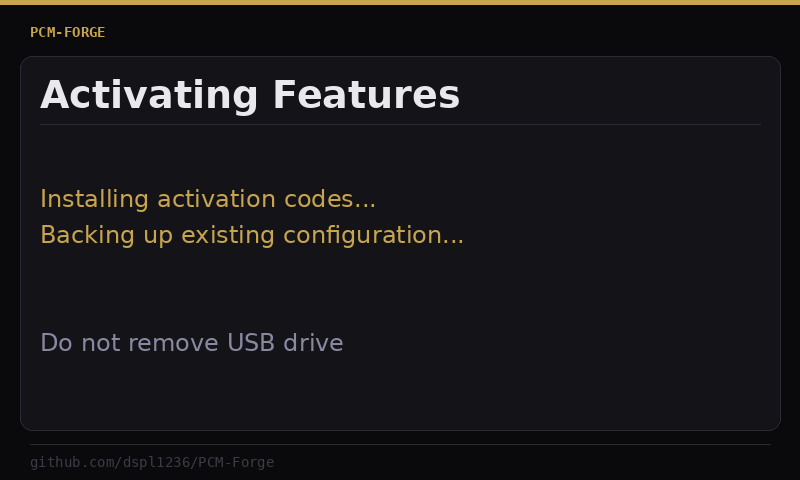
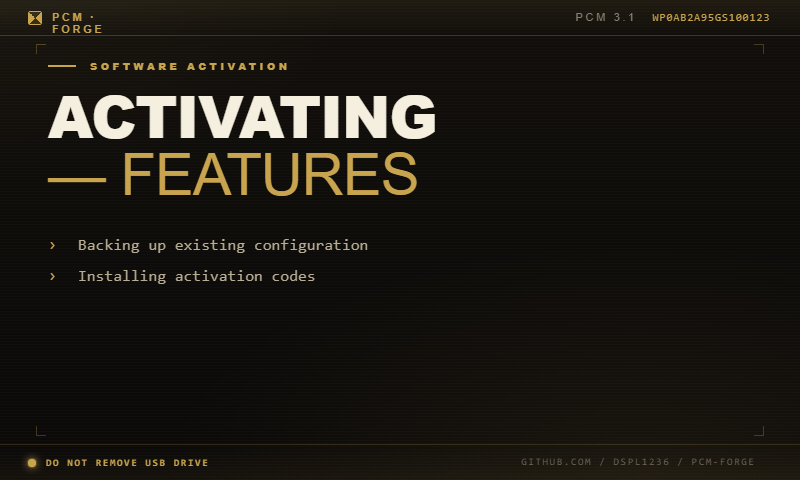
Replace PIL screens with custom-designed status PNGs
Andrew's custom designs using Claude Visualizer:
- running.png: gold 'RUNNING DIAGNOSTICS' with PCM 3.1 header
- done.png: green 'DIAGNOSTIC COMPLETE' with PagSWAct backup confirm
- activating.png: gold 'ACTIVATING FEATURES' with install/backup steps
- activating-done.png: green 'FEATURES ACTIVATED' with ignition cycle note

Activation flow: activating.png → activating-done.png
Diagnostic flow: running.png → done.png

diff --git a/desktop-app/index.html b/desktop-app/index.html
@@ -528,7 +528,7 @@ function xorEncode(plainBytes) {
 // 3-file USB structure: copie_scr.sh (XOR bootstrap) + run.sh (plaintext) + PagSWAct.002
 const BOOTSTRAP='#!/bin/ksh\nexport SDPATH=$1\nmount -u $SDPATH\ncd $SDPATH\nexec ksh ./run.sh $SDPATH\n';
 
-const RUN_ACTIVATE='#!/bin/ksh\n# PCM-Forge activation \u2014 https://github.com/dspl1236/PCM-Forge\nUSBROOT="$1"\n[ -z "$USBROOT" ] && USBROOT="/fs/usb0"\n# Show status on screen\nfor ss in "${USBROOT}/bin/showScreen" /usr/bin/showScreen; do\n    [ -x "$ss" ] && "$ss" "${USBROOT}/lib/activating.png" 2>/dev/null &\n    break\ndone\nif [ -f /HBpersistence/PagSWAct.002 ]; then\n    cp /HBpersistence/PagSWAct.002 /HBpersistence/PagSWAct.002.bak 2>/dev/null\n    cp /HBpersistence/PagSWAct.002 "${USBROOT}/PagSWAct_backup.002" 2>/dev/null\nfi\nfor obs in /HBpersistence/CustomBootscreen_*.bin; do\n    [ -f "$obs" ] && cp "$obs" "${USBROOT}/$(basename $obs).bak" 2>/dev/null\ndone\nif [ -f "${USBROOT}/PagSWAct.002" ]; then\n    cp "${USBROOT}/PagSWAct.002" /HBpersistence/PagSWAct.002 2>&1\n    touch /HBpersistence/DBGModeActive 2>&1\nfi\nfor bs in "${USBROOT}"/CustomBootscreen_*.bin; do\n    [ -f "$bs" ] && cp "$bs" /HBpersistence/ 2>/dev/null\ndone\necho "PCM-Forge done" > "${USBROOT}/pcm_ran.txt" 2>/dev/null\n# Show complete\nfor ss in "${USBROOT}/bin/showScreen" /usr/bin/showScreen; do\n    [ -x "$ss" ] && "$ss" "${USBROOT}/lib/done.png" 2>/dev/null &\n    break\ndone\n';
+const RUN_ACTIVATE='#!/bin/ksh\n# PCM-Forge activation \u2014 https://github.com/dspl1236/PCM-Forge\nUSBROOT="$1"\n[ -z "$USBROOT" ] && USBROOT="/fs/usb0"\n# Show status on screen\nfor ss in "${USBROOT}/bin/showScreen" /usr/bin/showScreen; do\n    [ -x "$ss" ] && "$ss" "${USBROOT}/lib/activating.png" 2>/dev/null &\n    break\ndone\nif [ -f /HBpersistence/PagSWAct.002 ]; then\n    cp /HBpersistence/PagSWAct.002 /HBpersistence/PagSWAct.002.bak 2>/dev/null\n    cp /HBpersistence/PagSWAct.002 "${USBROOT}/PagSWAct_backup.002" 2>/dev/null\nfi\nfor obs in /HBpersistence/CustomBootscreen_*.bin; do\n    [ -f "$obs" ] && cp "$obs" "${USBROOT}/$(basename $obs).bak" 2>/dev/null\ndone\nif [ -f "${USBROOT}/PagSWAct.002" ]; then\n    cp "${USBROOT}/PagSWAct.002" /HBpersistence/PagSWAct.002 2>&1\n    touch /HBpersistence/DBGModeActive 2>&1\nfi\nfor bs in "${USBROOT}"/CustomBootscreen_*.bin; do\n    [ -f "$bs" ] && cp "$bs" /HBpersistence/ 2>/dev/null\ndone\necho "PCM-Forge done" > "${USBROOT}/pcm_ran.txt" 2>/dev/null\n# Show complete\nfor ss in "${USBROOT}/bin/showScreen" /usr/bin/showScreen; do\n    [ -x "$ss" ] && "$ss" "${USBROOT}/lib/activating-done.png" 2>/dev/null &\n    break\ndone\n';
 
 const RUN_DIAG='#!/bin/ksh\n# PCM-Forge Enhanced Diagnostic + CAN Probe\nUSBROOT="$1"\n[ -z "$USBROOT" ] && USBROOT="/fs/usb0"\nLOG="${USBROOT}/pcm_debug.log"\nDUMPDIR="${USBROOT}/pcm_dump"\nmkdir -p "$DUMPDIR" 2>/dev/null\n# Show status on screen\nfor ss in "${USBROOT}/bin/showScreen" /usr/bin/showScreen; do\n    [ -x "$ss" ] && "$ss" "${USBROOT}/lib/running.png" 2>/dev/null &\n    break\ndone\necho "PCM-Forge diag starting" > "${USBROOT}/pcm_ran.txt"\n{\n    echo "============================================"\n    echo "  PCM-Forge Enhanced Diagnostic + CAN Probe"\n    echo "============================================"\n    echo ""\n    echo "=== PCM Version ==="\n    cat /mnt/ifs1/HBproject/version.txt 2>&1\n    cat /HBproject/version.txt 2>&1\n    echo ""\n    echo "=== VIN ==="\n    cat /HBpersistence/vin 2>&1\n    echo ""\n    echo "=== Existing Activation Files ==="\n    ls -la /HBpersistence/PagSWAct* 2>&1\n    ls -la /HBpersistence/DBGModeActive 2>&1\n    ls -la /HBpersistence/CustomBootscreen* 2>&1\n    echo ""\n    echo "=== Backup PagSWAct.002 ==="\n    if [ -f /HBpersistence/PagSWAct.002 ]; then\n        cp /HBpersistence/PagSWAct.002 "${USBROOT}/PagSWAct_backup.002" 2>&1\n        echo "Backed up to USB"\n    else\n        echo "not present"\n    fi\n    echo ""\n    echo "=== FeatureLevel / Boot Screen ==="\n    ls -la /HBpersistence/CustomBootscreen_*.bin 2>&1\n    echo ""\n    echo "=== CVALUE Files ==="\n    ls -la /HBpersistence/CVALUE*.CVA 2>&1\n    for cva in /HBpersistence/CVALUE*.CVA; do\n        [ -f "$cva" ] && cp "$cva" "$DUMPDIR/" 2>/dev/null\n    done\n    echo ""\n    echo "=== FSC Files ==="\n    ls -la /HBpersistence/FSC/ 2>&1\n    ls -la /mnt/efs-persist/FSC/ 2>&1\n    echo ""\n    echo "=== Mount Points ==="\n    mount 2>&1\n    echo ""\n    echo "=== /HBpersistence ==="\n    ls -la /HBpersistence/ 2>&1\n    echo ""\n    echo "=== Processes ==="\n    pidin 2>&1\n    echo ""\n    echo "=== Network ==="\n    ifconfig 2>&1\n    echo ""\n    echo "============================================"\n    echo "  CAN / IOC Probe"\n    echo "============================================"\n    echo ""\n    echo "=== IPC Devices ==="\n    ls -laR /dev/ipc/ 2>&1\n    echo ""\n    echo "=== DSP IPC ==="\n    ls -laR /dev/dspipc/ 2>&1\n    echo ""\n    echo "=== All /dev ==="\n    ls /dev/ 2>&1\n    echo ""\n    echo "=== Device Nodes ==="\n    ls /dev/ser* /dev/can* /dev/spi* /dev/i2c* /dev/hd* /dev/fs* 2>&1\n    echo ""\n    echo "=== Sysregs (FPGA) ==="\n    ls -la /dev/sysregs/ 2>&1\n    echo ""\n    echo "=== MOST ==="\n    ls -la /dev/most* 2>&1\n    echo ""\n    echo "=== hbsystem ==="\n    ls -laR /hbsystem/ 2>&1\n    echo ""\n    echo "=== Service Broker ==="\n    ls -la /srv/ 2>&1\n    echo ""\n    echo "=== /dev/name ==="\n    ls -laR /dev/name/ 2>&1\n    echo ""\n    echo "=== /dev/dsi ==="\n    ls -laR /dev/dsi/ 2>&1\n    echo ""\n    echo "=== Flash Partitions ==="\n    ls -la /dev/fs0* 2>&1\n    echo ""\n    echo "=== HDD Partitions ==="\n    ls -la /dev/hd0* 2>&1\n    echo ""\n    echo "=== IFS/EFS Paths ==="\n    ls -d /mnt/ifs1/ /mnt/flash/ /mnt/efs-system/ /mnt/efs-extended/ /mnt/data/ /mnt/share/ /mnt/nav/ 2>&1\n    echo ""\n    echo "=== Engineering ESD ==="\n    ls /mnt/flash/efs1/engdefs/ 2>&1\n    ls /HBpersistence/engdefs/ 2>&1\n    ls /mnt/ifs1/engdefs/ 2>&1\n    echo ""\n    echo "=== inetd.conf ==="\n    cat /etc/inetd.conf 2>&1\n    echo ""\n    echo "=== screensaver.conf ==="\n    cat /HBpersistence/screensaver.conf 2>&1\n    echo ""\n    echo "=== hybrid.bin ==="\n    ls -la /HBpersistence/hybrid.bin 2>&1\n    cp /HBpersistence/hybrid.bin "$DUMPDIR/" 2>/dev/null\n    echo ""\n    echo "=== test.html ==="\n    cat /HBpersistence/test.html 2>&1\n    echo ""\n    echo "=== test1.html ==="\n    cat /HBpersistence/test1.html 2>&1\n    echo ""\n    echo "============================================"\n    echo "  Diagnostic + CAN Probe Complete"\n    echo "============================================"\n} > "$LOG" 2>&1\ncp /HBpersistence/vin "$DUMPDIR/vin" 2>/dev/null\ncp /HBpersistence/screensaver.conf "$DUMPDIR/" 2>/dev/null\ncp /HBpersistence/test.html "$DUMPDIR/" 2>/dev/null\ncp /HBpersistence/test1.html "$DUMPDIR/" 2>/dev/null\necho "PCM-Forge diag done" > "${USBROOT}/pcm_ran.txt"\n# Show complete\nfor ss in "${USBROOT}/bin/showScreen" /usr/bin/showScreen; do\n    [ -x "$ss" ] && "$ss" "${USBROOT}/lib/done.png" 2>/dev/null &\n    break\ndone\n';
 
